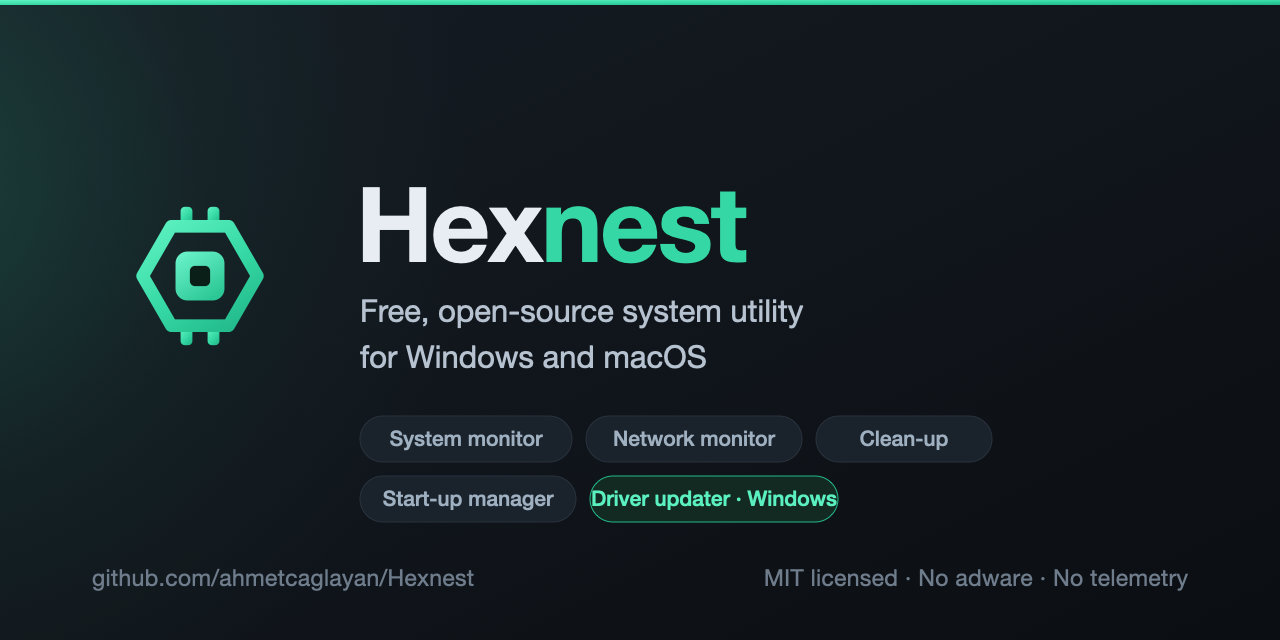
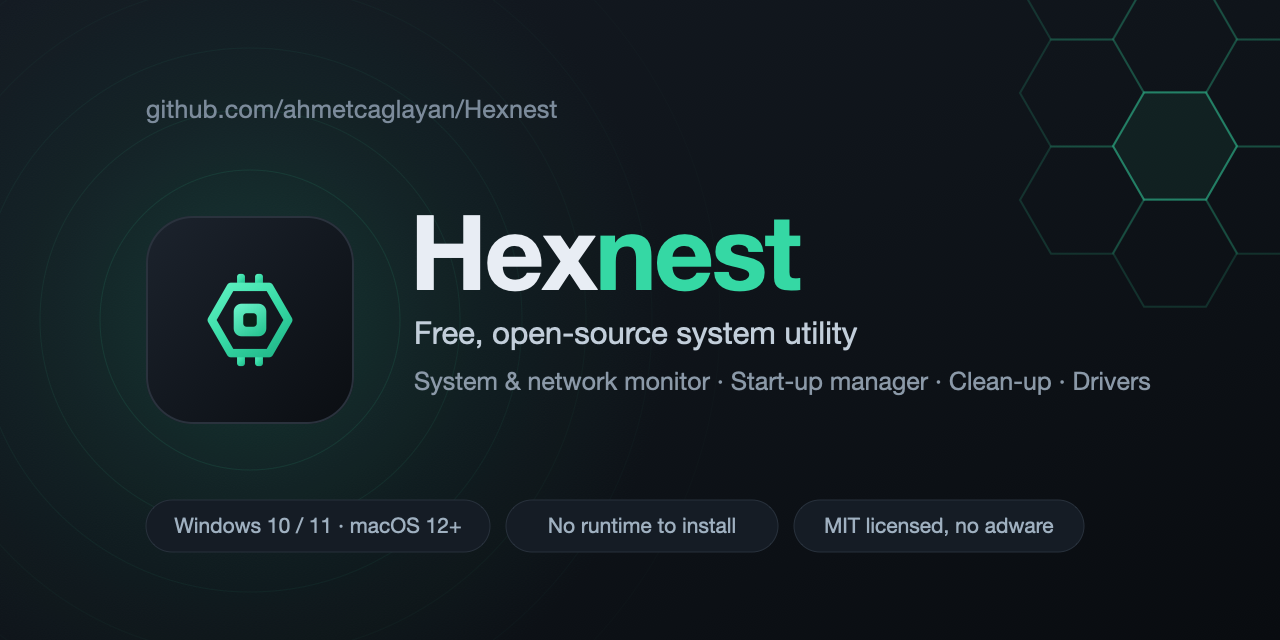
Redraw the social card, and say so when running under Rosetta
The card GitHub shows as the repository's social preview was still the DrvNest
one. It is now drawn from assets/og-image.svg like the site's og:image, so the
two cannot disagree: the rounded application plate, the concentric rings and the
honeycomb bleeding off the corner, with copy that names both platforms.

Separately: opening the Intel build on an Apple silicon Mac is easy to do by
accident, and afterwards nothing tells you. macOS warns once at launch and then
stays quiet, and the About page reported the *machine's* architecture, which
says Arm64 either way - so it confirmed you were running the right build when
you were not.

SystemSnapshot now distinguishes the two: ArchitectureDisplay reports the
process and marks it "(Rosetta)", and the About page carries a warning that is
only ever visible to somebody running the wrong disk image, telling them which
one to download.

diff --git a/src/Hexnest.Core/Localization/Loc.cs b/src/Hexnest.Core/Localization/Loc.cs
@@ -806,6 +806,7 @@ public static class Loc
         ["mac.memoryUsed"] = "{0} of {1} in use",
         ["mac.confirmSecurity"] = "{0} looks like security software. Stopping it from starting at login could leave this Mac unprotected.\n\nTurn it off anyway?",
         ["mac.cleanConfirm"] = "About {0} will be removed from {1} categor(ies).\n\nCaches are deleted permanently. Your own files - old downloads, device backups and leftover folders - go to the Trash.\n\nContinue?",
+        ["mac.rosetta"] = "This is the Intel build, running on Apple silicon through Rosetta. It works, but it is slower and a future macOS will not run it at all. Download Hexnest-arm64.dmg instead.",
         ["mac.swap"] = "Swap",
         ["mac.uptime"] = "Uptime",
         ["mac.restricted"] = "NO ACCESS",
@@ -1326,6 +1327,7 @@ public static class Loc
         ["mac.memoryUsed"] = "{1} belleğin {0} kadarı kullanımda",
         ["mac.confirmSecurity"] = "{0} bir güvenlik yazılımı gibi görünüyor. Girişte başlamasını engellemek bu Mac'i korumasız bırakabilir.\n\nYine de kapatılsın mı?",
         ["mac.cleanConfirm"] = "{1} kategoriden yaklaşık {0} kaldırılacak.\n\nÖnbellekler kalıcı olarak silinir. Kendi dosyalarınız — eski indirmeler, cihaz yedekleri ve artık klasörler — Çöp'e gider.\n\nDevam edilsin mi?",
+        ["mac.rosetta"] = "Bu, Apple silicon üzerinde Rosetta ile çalışan Intel derlemesi. Çalışır ama daha yavaştır ve ileriki bir macOS sürümü onu hiç açmayacak. Bunun yerine Hexnest-arm64.dmg indirin.",
         ["mac.swap"] = "Takas",
         ["mac.uptime"] = "Çalışma süresi",
         ["mac.restricted"] = "ERİŞİM YOK",

diff --git a/src/Hexnest.Core/Platform/Mac/SystemInfo.cs b/src/Hexnest.Core/Platform/Mac/SystemInfo.cs
@@ -248,6 +248,25 @@ public sealed class SystemSnapshot
         }
     }
 
+    /// <summary>
+    /// True when an Intel build is running on Apple silicon through Rosetta.
+    ///
+    /// It matters because <see cref="Architecture"/> reports the machine, not the
+    /// process, and says "Arm64" either way - so an About page that showed only that
+    /// would tell somebody running the wrong download that they were running the right
+    /// one. macOS warns about this once, at launch, and then never again.
+    /// </summary>
+    public bool IsTranslated =>
+        Architecture.Equals("Arm64", StringComparison.OrdinalIgnoreCase) &&
+        ProcessArchitecture.Equals("X64", StringComparison.OrdinalIgnoreCase);
+
+    /// <summary>
+    /// What to show for architecture: the process, and whether it is being translated.
+    /// </summary>
+    public string ArchitectureDisplay => IsTranslated
+        ? $"{ProcessArchitecture} (Rosetta)"
+        : ProcessArchitecture;
+
     /// <summary>e.g. "10 cores (8P + 2E)", or "10 cores" on a chip with one cluster.</summary>
     public string CoreDisplay
     {

diff --git a/src/Hexnest.Mac/ViewModels/AboutViewModel.cs b/src/Hexnest.Mac/ViewModels/AboutViewModel.cs
@@ -48,7 +48,16 @@ public sealed class AboutViewModel : ViewModelBase
 
     public string MachineText =>
         $"{SystemInfo.Current.MachineDisplay}  ·  {SystemInfo.Current.OsDisplay}  ·  " +
-        $"{SystemInfo.Current.Architecture}";
+        $"{SystemInfo.Current.ArchitectureDisplay}";
+
+    /// <summary>
+    /// True when this is the Intel build running on an Apple silicon Mac. The user
+    /// downloaded the wrong disk image, and nothing else in the application would
+    /// tell them: macOS says so once at launch and then stays quiet.
+    /// </summary>
+    public bool IsTranslated => SystemInfo.Current.IsTranslated;
+
+    public string TranslatedNotice => Loc.T("mac.rosetta");
 
     public string ProcessorText =>
         $"{SystemInfo.Current.ProcessorName}  ·  {SystemInfo.Current.CoreDisplay}";
